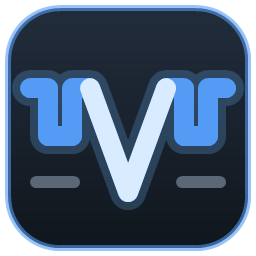
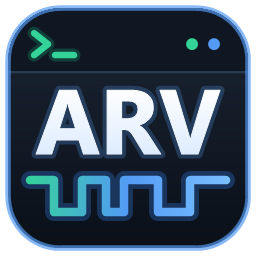
chore(release): release v1.2.0

diff --git a/docs/LIMITS.md b/docs/LIMITS.md
@@ -1,6 +1,6 @@
-# ViLogger — Limits & Pitfalls
+# ARVSerialTool — Limits & Pitfalls
 
-Applies to **ViLogger v1.1.2** and later. Numbers assume **8N1** framing (10 bits per byte), so
+Applies to **ARVSerialTool v1.2.0** and later *(formerly ViLogger)*. Numbers assume **8N1** framing (10 bits per byte), so
 **bytes/s ≈ baud ÷ 10** — e.g. 115200 baud ≈ 11.5 KB/s, 921600 baud ≈ 92 KB/s.
 
 > [!IMPORTANT]
@@ -23,7 +23,7 @@ flowchart LR
     H --> I["Terminal (max 120,000 chars)"]
 ```
 
-The log path and the display path are independent: a slow or paused terminal never affects the log.
+The log path and the display path are independent: a slow or paused terminal never affects the log. Transmit (manual TX and background File TX) writes directly to the serial stream under a dedicated write lock, so streaming a file never blocks the receive or log threads.
 
 ---
 
@@ -40,7 +40,8 @@ The log path and the display path are independent: a slow or paused terminal nev
 | Log flush | every **500 ms** (64 KB file buffer) | Data at risk if the app is killed / PC loses power |
 | Terminal text | **120,000 chars**, trimmed to 80,000 | See §4 — only seconds of data at high baud |
 | UI refresh | every **50 ms** (20×/s) | Counters and terminal update rate |
-| TX write timeout | **500 ms**, 4 KB TX buffer | Large sends at low baud fail (§6) |
+| TX write timeout | **500 ms**, 4 KB TX buffer | Manual single TX > ~4.5 KB at 9600 fails (§6); File TX slices to ~200 ms writes |
+| File TX chunk / delay | Chunk **1 – 4096 B**, Delay **0 – 60,000 ms** | Paces Raw/Hex chunks or Text lines (§6) |
 | Timestamps | **None** (view or log) | Not usable for timing analysis (§7) |
 | Log rotation | **None** | One file per session, grows without limit (§3) |
 
@@ -55,7 +56,7 @@ The log path and the display path are independent: a slow or paused terminal nev
   only the extension differs. Nothing is added (no timestamps, no TX, no system messages).
 - **Hex (`.log`)** = every byte as 2 uppercase hex digits, space separated, **exactly 16 bytes per line**
   (independent of how the driver split the data). The file is **3× the data size**.
-- Closing ViLogger normally waits until all queued data is on disk.
+- Closing ARVSerialTool normally waits until all queued data is on disk.
 
 ### Limits and pitfalls
 | Situation | What happens | How to avoid |
@@ -65,7 +66,7 @@ The log path and the display path are independent: a slow or paused terminal nev
 | Device unplugged / port error | Logging **stops automatically**. Data still inside the adapter/driver is lost. Reconnect is manual, so there is a **gap**. Pressing Log again starts a **new file**. | Check for the HARDWARE REMOVED badge / `[--- … Disconnected ---]` line before trusting a long log. |
 | Very long runs | No rotation — the file just grows. **FAT32 USB sticks stop at 4 GB:** at 921600 baud continuous that is ~13 h (Binary/ASCII) or **~4.3 h (Hex)**. | Log to an NTFS drive; prefer Binary/ASCII for long captures. |
 | Slow disk (network share, slow USB stick) | Data waits in RAM (no loss), memory use grows. If the drive disappears, the write fails → logging stops with `Log error: …`. | Log to a local disk. |
-| Disk full / no permission | Logging stops (or refuses to start) and shows `Log error: …` in the status bar and terminal. | Watch the status bar; if the app folder is read-only, ViLogger defaults to `Documents\ViLogger\Logs`. |
+| Disk full / no permission | Logging stops (or refuses to start) and shows `Log error: …` in the status bar and terminal. | Watch the status bar; if the app folder is read-only, ARVSerialTool defaults to `Documents\ARVSerialTool\Logs`. |
 
 ### File naming
 Date/time tokens use your PC's **local time**. Characters that are not allowed in file names are replaced with `_`.
@@ -114,7 +115,7 @@ still trimmed — when you turn AutoScroll back ON, anything older than the wind
 
 | Pitfall | Effect |
 |---|---|
-| Wrong baud / parity / data bits | You get garbage or nothing — **no warning**. Parity, framing, overrun and break errors are **not reported** by ViLogger. |
+| Wrong baud / parity / data bits | You get garbage or nothing — **no warning**. Parity, framing, overrun and break errors are **not reported** by ARVSerialTool. |
 | **XOn/XOff handshake** with binary data | Bytes `0x11` and `0x13` are treated as flow control by the driver → binary data is corrupted. Use XOn/XOff only for text protocols. |
 | RTS/CTS handshake with the CTS line not wired | Receive works, but TX blocks and fails after 500 ms (`Tx Error: …`). |
 | Port already open in another program | Connect fails (Windows allows only one owner per COM port). |
@@ -129,15 +130,17 @@ still trimmed — when you turn AutoScroll back ON, anything older than the wind
 | ASCII mode encoding | **7-bit ASCII only.** Any non-ASCII character (Vietnamese letters, `°`, `©`, smart quotes…) is sent as `?` (`0x3F`). Use HEX mode to send such bytes. |
 | Line ending | Appended **only in ASCII mode**. In HEX mode exactly the typed bytes are sent — add `0D 0A` yourself. |
 | HEX input | Must have an even number of digits; otherwise nothing is sent and the status bar shows an error. |
-| Size / timeout | 4 KB TX buffer + 500 ms timeout ⇒ roughly **≤ 4.5 KB per send at 9600 baud**, ≤ ~10 KB at 115200. Larger sends fail with `Tx Error`. |
-| Logging | TX data is **never written to the log**; it only appears in the terminal as `TX>> …`. |
+| Size / timeout (manual TX bar) | 4 KB TX buffer + 500 ms timeout ⇒ roughly **≤ 4.5 KB per manual send at 9600 baud**, ≤ ~10 KB at 115200. Larger single-shot TX sends fail with `Tx Error`. |
+| File Transmit (`Send File`) | Streams files via 64 KB reads and automatically sub-slices each write to `~200 ms` worth of bytes at the active baud rate (`1 – 4096 B`) so arbitrarily large files succeed even at slow baud rates. |
+| File TX modes | **Raw** sends exact bytes unchanged; **Text** preserves bytes `0x80–0xFF` verbatim with optional `AsIs`/`CRLF`/`LF`/`CR` line endings and per-line delay; **Hex** validates the entire file in Pass 1 (rejecting Intel HEX `:`, Motorola S-Records, odd nibbles, or invalid tokens before writing byte 0) then sends decoded bytes in Pass 2. |
+| Logging | TX data (manual and file) is **never written to the log**; manual TX echoes `TX>> …`, while File TX logs concise start/complete/cancel/error notices only. |
 | TX failure | Does not close the port or stop logging of received data. |
 
 ---
 
 ## 7. Timing
 
-- **No timestamps** are stored in the log or shown in the view. ViLogger cannot tell *when* a byte arrived,
+- **No timestamps** are stored in the log or shown in the view. ARVSerialTool cannot tell *when* a byte arrived,
   inter-byte gaps, or response latency.
 - Received data arrives in **driver chunks**: USB-serial adapters batch bytes (FTDI's default latency
   timer is 16 ms; CP210x/CH340 behave similarly). Even the order of chunks between **different ports** is

diff --git a/README.md b/README.md
@@ -1,13 +1,13 @@
-<img src="docs/icon.png" alt="ViLogger icon" width="96" align="right"/>
+<img src="docs/icon.png" alt="ARVSerialTool icon" width="96" align="right"/>
 
-# ViLogger
+# ARVSerialTool
 
 [![Build](https://github.com/congsy3004/ViLogger/actions/workflows/build.yml/badge.svg)](https://github.com/congsy3004/ViLogger/actions/workflows/build.yml)
 [![Latest release](https://img.shields.io/github/v/release/congsy3004/ViLogger)](https://github.com/congsy3004/ViLogger/releases/latest)
 [![License: MIT](https://img.shields.io/badge/License-MIT-blue.svg)](LICENSE)
 
-**ViLogger** is a fast, portable serial port (UART / COM) monitor and data logger for Windows.
-Watch up to 4 ports side by side, send commands, and record the raw received data to files — no installation required.
+**ARVSerialTool** *(formerly ViLogger)* is a fast, portable serial port (UART / COM) monitor, file transmitter, and data logger for Windows.
+Watch up to 4 ports side by side, send commands or files, and record the raw received data to files — no installation required.
 
 ---
 
@@ -19,6 +19,7 @@ Watch up to 4 ports side by side, send commands, and record the raw received dat
 - **Live display** in **ASCII**, **Hex** or **Binary**, switchable at any time.
 - **Lossless file logging** per port in ASCII, Hex or raw Binary. Log files contain **only the received bytes** — no timestamps or extra text — and no data is dropped under load.
 - **Transmit bar** with ASCII / HEX mode, visible `<CR>` / `<LF>` tokens and selectable line endings.
+- **File transmit (`Send File`)** — stream files in **Raw** binary, **Text** (with line-ending conversion and per-line pacing), or parsed **Hex** bytes, with live progress and cancellation while RX monitoring and logging continue.
 - **Hardware removed indicator** — a red badge appears when a USB-serial device is unplugged; the COM list refreshes automatically.
 - **High performance** — dedicated receive thread per port, background log writer, terminal refreshed every 50 ms regardless of traffic.
 - **Single portable `.exe`** — the .NET runtime is bundled, nothing to install.
@@ -26,8 +27,8 @@ Watch up to 4 ports side by side, send commands, and record the raw received dat
 ## Download
 
 1. Go to the [**Releases**](https://github.com/congsy3004/ViLogger/releases/latest) page.
-2. Download **`ViLogger.exe`** (or the `.zip`).
-3. Put it in a folder you can write to (e.g. `Documents\ViLogger`) and run it.
+2. Download **`ARVSerialTool.exe`** (or the `.zip`).
+3. Put it in a folder you can write to (e.g. `Documents\ARVSerialTool`) and run it.
 
 **Requirements:** Windows 10 or 11, 64-bit.
 
@@ -36,7 +37,7 @@ Watch up to 4 ports side by side, send commands, and record the raw received dat
 > Click **More info → Run anyway**.
 
 > [!TIP]
-> By default, logs are saved to a `Logs` folder next to `ViLogger.exe` (or `Documents\ViLogger\Logs` if the
+> By default, logs are saved to a `Logs` folder next to `ARVSerialTool.exe` (or `Documents\ARVSerialTool\Logs` if the
 > app folder is read-only, such as `C:\Program Files` or a shared network drive). You can change the log
 > directory at any time in the toolbar.
 
@@ -61,6 +62,20 @@ Click **? Help** in the app for a full description of every button.
 | **Line ending** | Appends None / CR / LF / CRLF — **ASCII mode only**; in HEX mode add `0D 0A` yourself |
 
 Sent data is echoed in the monitor as `TX>> ...` (it is not written to the log file).
+
+### Sending a file
+
+Click **File** on the TX bar to open the File Transmit Panel for that port:
+
+1. Click **Browse...** and pick any file (`.bin`, `.txt`, `.log`, `.hex`, `.csv`, etc.).
+2. Choose **Mode**:
+   - **Raw** — streams the file's exact bytes unmodified in chunks (`1–4096 B`, default `256 B`).
+   - **Text** — streams line-by-line preserving all bytes verbatim (including `0x80–0xFF`), with **EOL** conversion (`AsIs`, `CRLF`, `LF`, `CR`) and optional per-line delay.
+   - **Hex** — parses text hex files (`48 65 6C`, `0x48, 0x65`, or Hex `.log` captures with `#` / `//` comments), validates the entire file before sending any byte, and transmits the decoded bytes in chunks.
+3. Optionally set **Delay (ms)** (`0–60000`) to pause between chunks (Raw/Hex) or between lines (Text).
+4. Click **➤ Send File**. Live progress is shown next to the file name and can be aborted anytime with **■ Stop** (or automatically if the port disconnects).
+
+Start, completion, cancellation, and error notices are shown in the terminal monitor while RX reception and logging continue uninterrupted.
 
 ### Log files
 
@@ -107,7 +122,7 @@ cd ViLogger
 dotnet build EverLogger.sln -c Release
 dotnet run --project src/EverLogger.App -c Release
 
-# Create the portable single-file exe -> publish\ViLogger.exe
+# Create the portable single-file exe -> publish\ARVSerialTool.exe
 dotnet publish src\EverLogger.App\EverLogger.App.csproj -c Release -r win-x64 --self-contained true -p:PublishSingleFile=true -o publish
 ```
 
@@ -116,19 +131,19 @@ dotnet publish src\EverLogger.App\EverLogger.App.csproj -c Release -r win-x64 --
 | Path | Description |
 |---|---|
 | `src/EverLogger.App` | WPF user interface (MVVM) |
-| `src/EverLogger.Core` | Serial port handling, data queues and log writers |
+| `src/EverLogger.Core` | Serial port handling, file transmitter, data queues and log writers |
 | `src/EverLogger.App/Resources/app.ico` | Application icon |
 | `tools/make_icon.ps1` | Script that regenerates the icon (`pwsh tools/make_icon.ps1 -OutIco src/EverLogger.App/Resources/app.ico -PreviewPng docs/icon.png`) |
 | `docs/` | README images and [LIMITS.md](docs/LIMITS.md) (detailed limits) |
 
 ### Releasing
 
-Push a version tag and GitHub Actions builds `ViLogger.exe` and creates the release automatically,
+Push a version tag and GitHub Actions builds `ARVSerialTool.exe` and creates the release automatically,
 using the matching `## vX.Y.Z` section of `RELEASE_NOTES.md` as the description:
 
 ```powershell
-git tag v1.1.0
-git push origin v1.1.0
+git tag v1.2.0
+git push origin v1.2.0
 ```
 
 ## Contributing
@@ -138,6 +153,6 @@ and include your Windows version, the USB-serial adapter you use and steps to re
 
 ## License
 
-ViLogger is released under the [MIT License](LICENSE).
+ARVSerialTool is released under the [MIT License](LICENSE).
 It uses [RJCP.SerialPortStream](https://github.com/jcurl/SerialPortLib2) (MS-PL) and the .NET runtime (MIT) —
 see [THIRD-PARTY-NOTICES.md](THIRD-PARTY-NOTICES.md).

diff --git a/RELEASE_NOTES.md b/RELEASE_NOTES.md
@@ -1,7 +1,36 @@
-# ViLogger — Release Notes
+# ARVSerialTool — Release Notes
 
-> **ViLogger** is a high-performance, portable serial port monitor and data logger for Windows.
+> **ARVSerialTool** *(formerly ViLogger)* is a high-performance, portable serial port monitor, file transmitter, and data logger for Windows.
 > Built with .NET 8 / WPF. Self-contained — no installation required.
+
+---
+
+## v1.2.0 — 2026-11-14
+
+**Rebranded from ViLogger to ARVSerialTool, added the integrated Send File feature, and introduced the new ARVSerialTool application icon.**
+
+---
+
+### ✨ New
+
+- **File Transmit (`Send File`):** click **File** on any port's TX bar to open the collapsible File Transmit Panel and stream files directly over that serial port while RX monitoring and logging continue uninterrupted.
+  - **Raw mode:** streams exact file bytes unmodified in configurable chunks (`1 – 4096 B`, default `256 B`).
+  - **Text mode:** streams line-by-line preserving all byte values (including `0x80–0xFF`) with selectable line-ending conversion (`AsIs`, `CRLF`, `LF`, `CR`) and optional per-line delay.
+  - **Hex mode:** parses formatted hexadecimal text files (space/comma/dash/semicolon separated, `0x` prefixes, continuous even-length hex, `#` / `//` comments, and Hex `.log` files), validates the entire file before transmitting any byte, and sends the decoded binary payload.
+  - **Baud-aware pacing & live controls:** optional inter-chunk / inter-line **Delay (`0 – 60000 ms`)**, internal slow-baud wire slicing (~200 ms per write) to avoid `500 ms` TX timeouts on low baud rates, live progress indicator, **■ Stop** cancellation, and automatic abort if the port disconnects.
+- **New application icon & thumbnail:** redesigned icon (`src/EverLogger.App/Resources/app.ico`, `docs/icon.png`) featuring the **`ARV`** wordmark inside a dark terminal tile with a `>_` prompt, RX/TX status dots, and a UART digital square-wave pulse train.
+- **Documentation & Help:** updated the in-app **? Help** reference, `README.md`, and `docs/LIMITS.md` for `ARVSerialTool` and the File Transmit controls.
+
+### 🔄 Changed
+
+- **Renamed application to `ARVSerialTool`:** updated executable output to `ARVSerialTool.exe`, window titles, assembly/product metadata, release archive names, and read-only log fallback directory (`Documents\ARVSerialTool\Logs`).
+
+### 📦 Download
+
+| File | Description |
+|------|-------------|
+| `ARVSerialTool.exe` | Self-contained portable executable for Windows 10/11 x64 |
+| `ARVSerialTool-v1.2.0-win-x64.zip` | Same executable plus LICENSE, README, LIMITS and third-party notices |
 
 ---
 

diff --git a/.github/ISSUE_TEMPLATE/bug_report.md b/.github/ISSUE_TEMPLATE/bug_report.md
@@ -1,6 +1,6 @@
 ---
 name: Bug report
-about: Report a problem with ViLogger
+about: Report a problem with ARVSerialTool
 labels: bug
 ---
 
@@ -15,7 +15,7 @@ A clear description of the problem.
 **Expected behavior**
 
 **Environment**
-- ViLogger version:
+- ARVSerialTool version:
 - Windows version:
 - USB-serial adapter / device (e.g. CP2102, CH340, FTDI):
 - Baud rate and UART settings:

diff --git a/THIRD-PARTY-NOTICES.md b/THIRD-PARTY-NOTICES.md
@@ -1,6 +1,6 @@
 # Third-Party Notices
 
-ViLogger is licensed under the [MIT License](LICENSE). The released `ViLogger.exe`
+ARVSerialTool is licensed under the [MIT License](LICENSE). The released `ARVSerialTool.exe`
 bundles the following third-party components, which remain under their own licenses.
 
 ## RJCP.SerialPortStream and its RJCP.* dependencies
